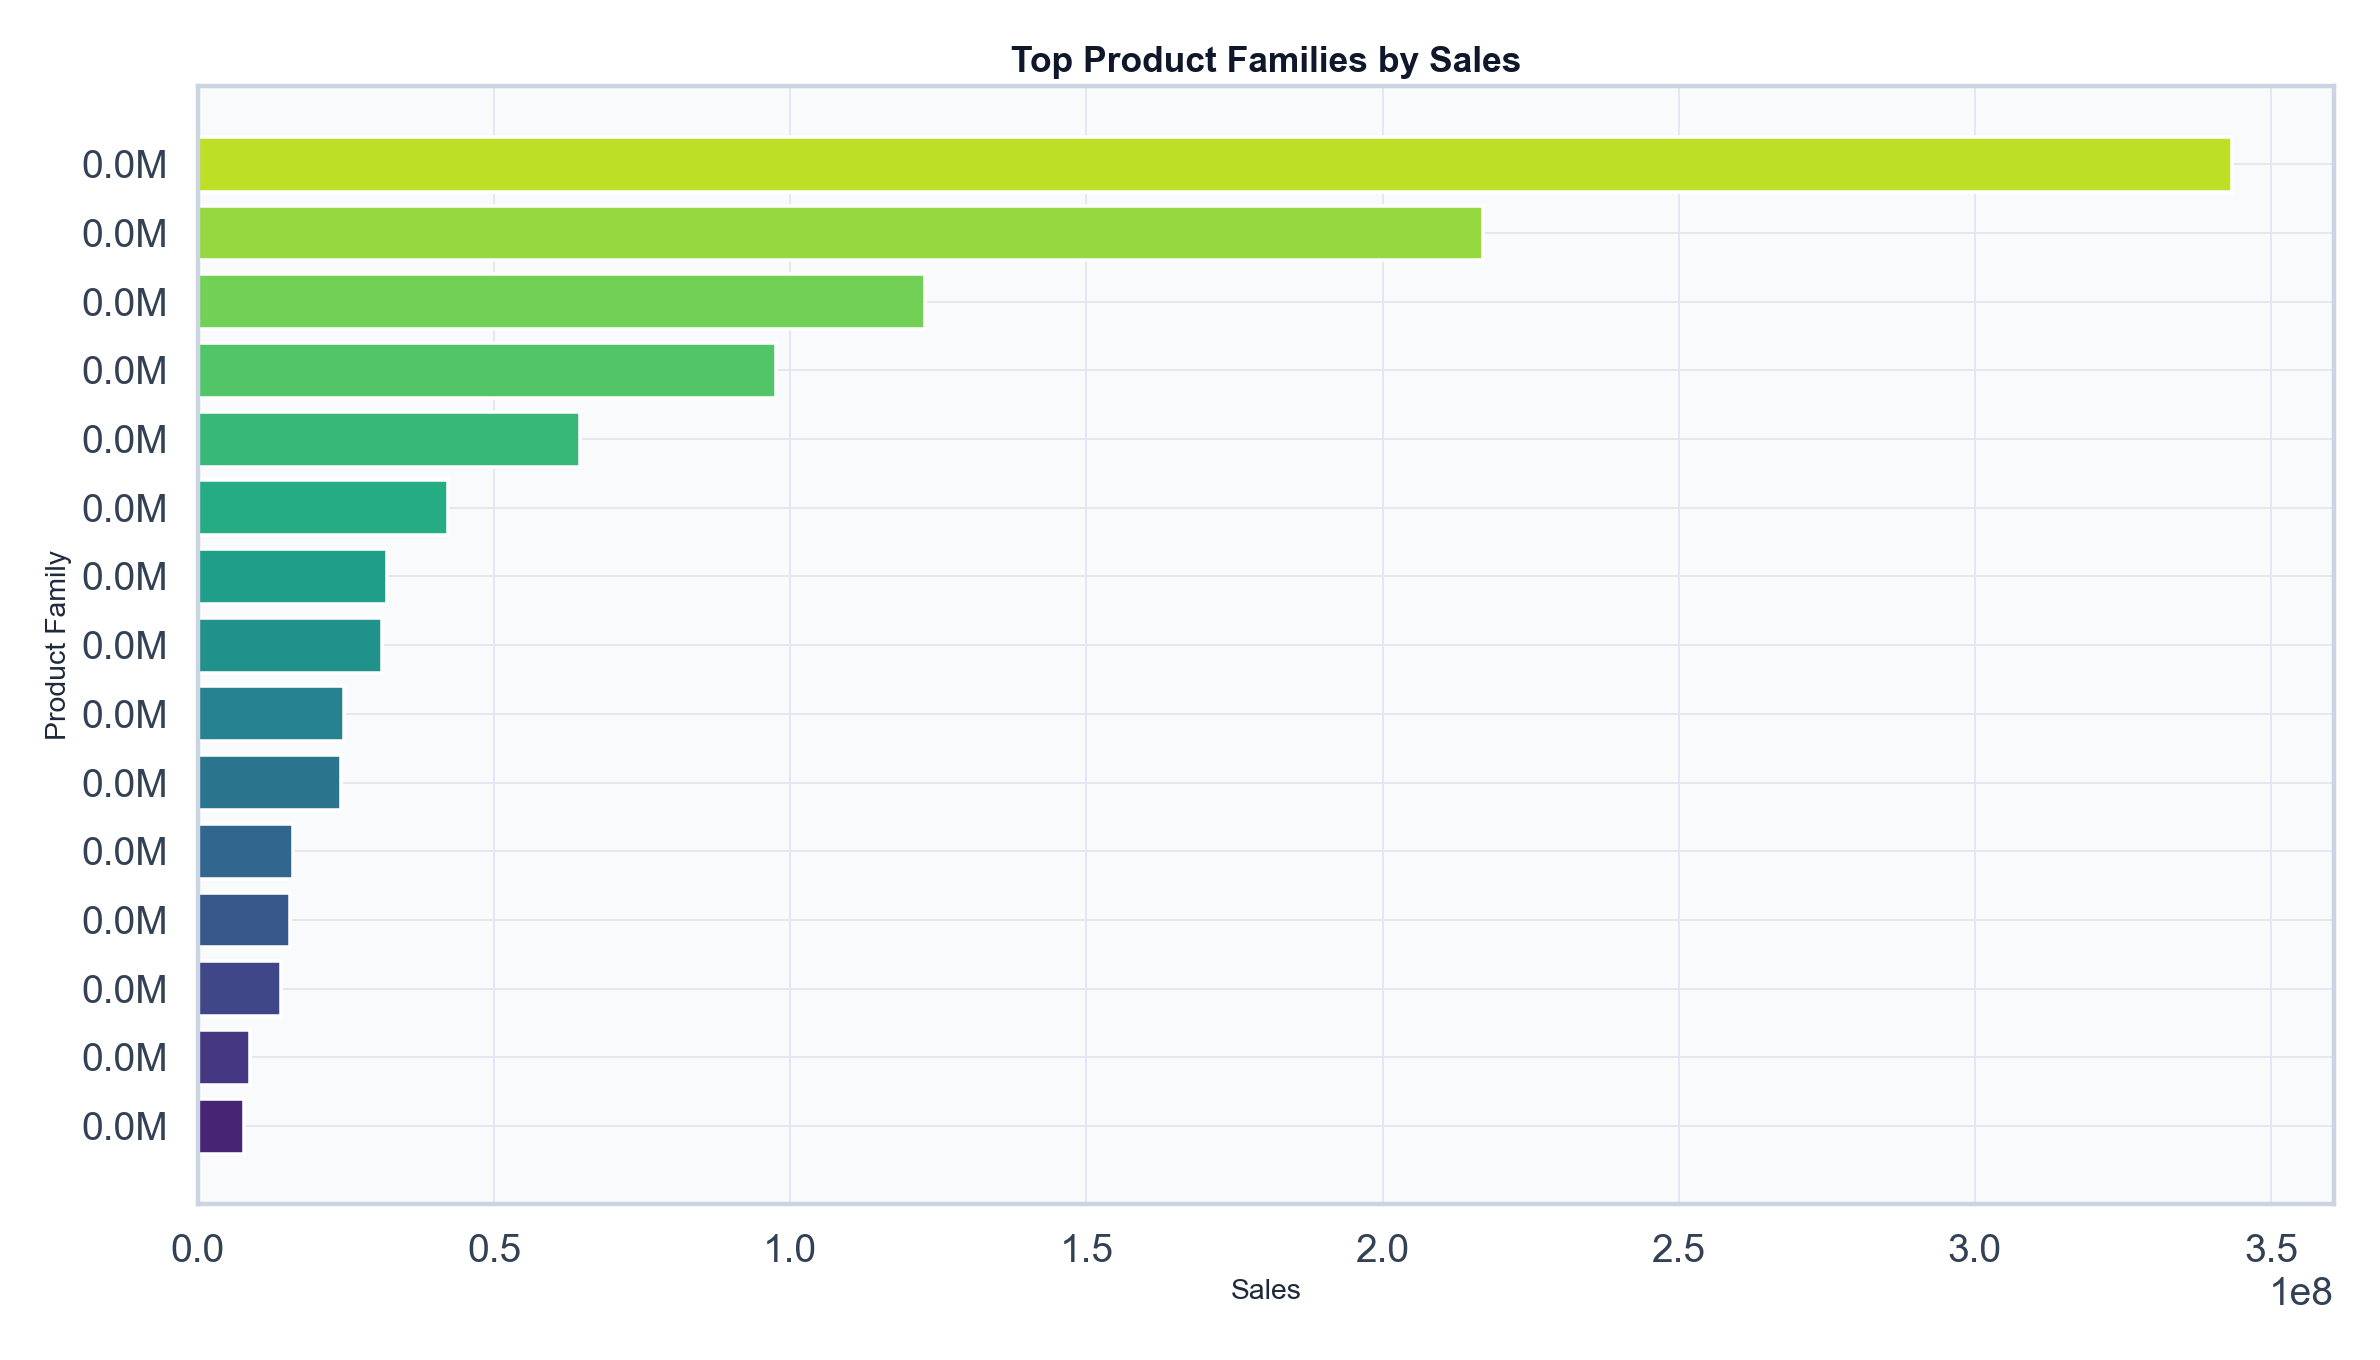
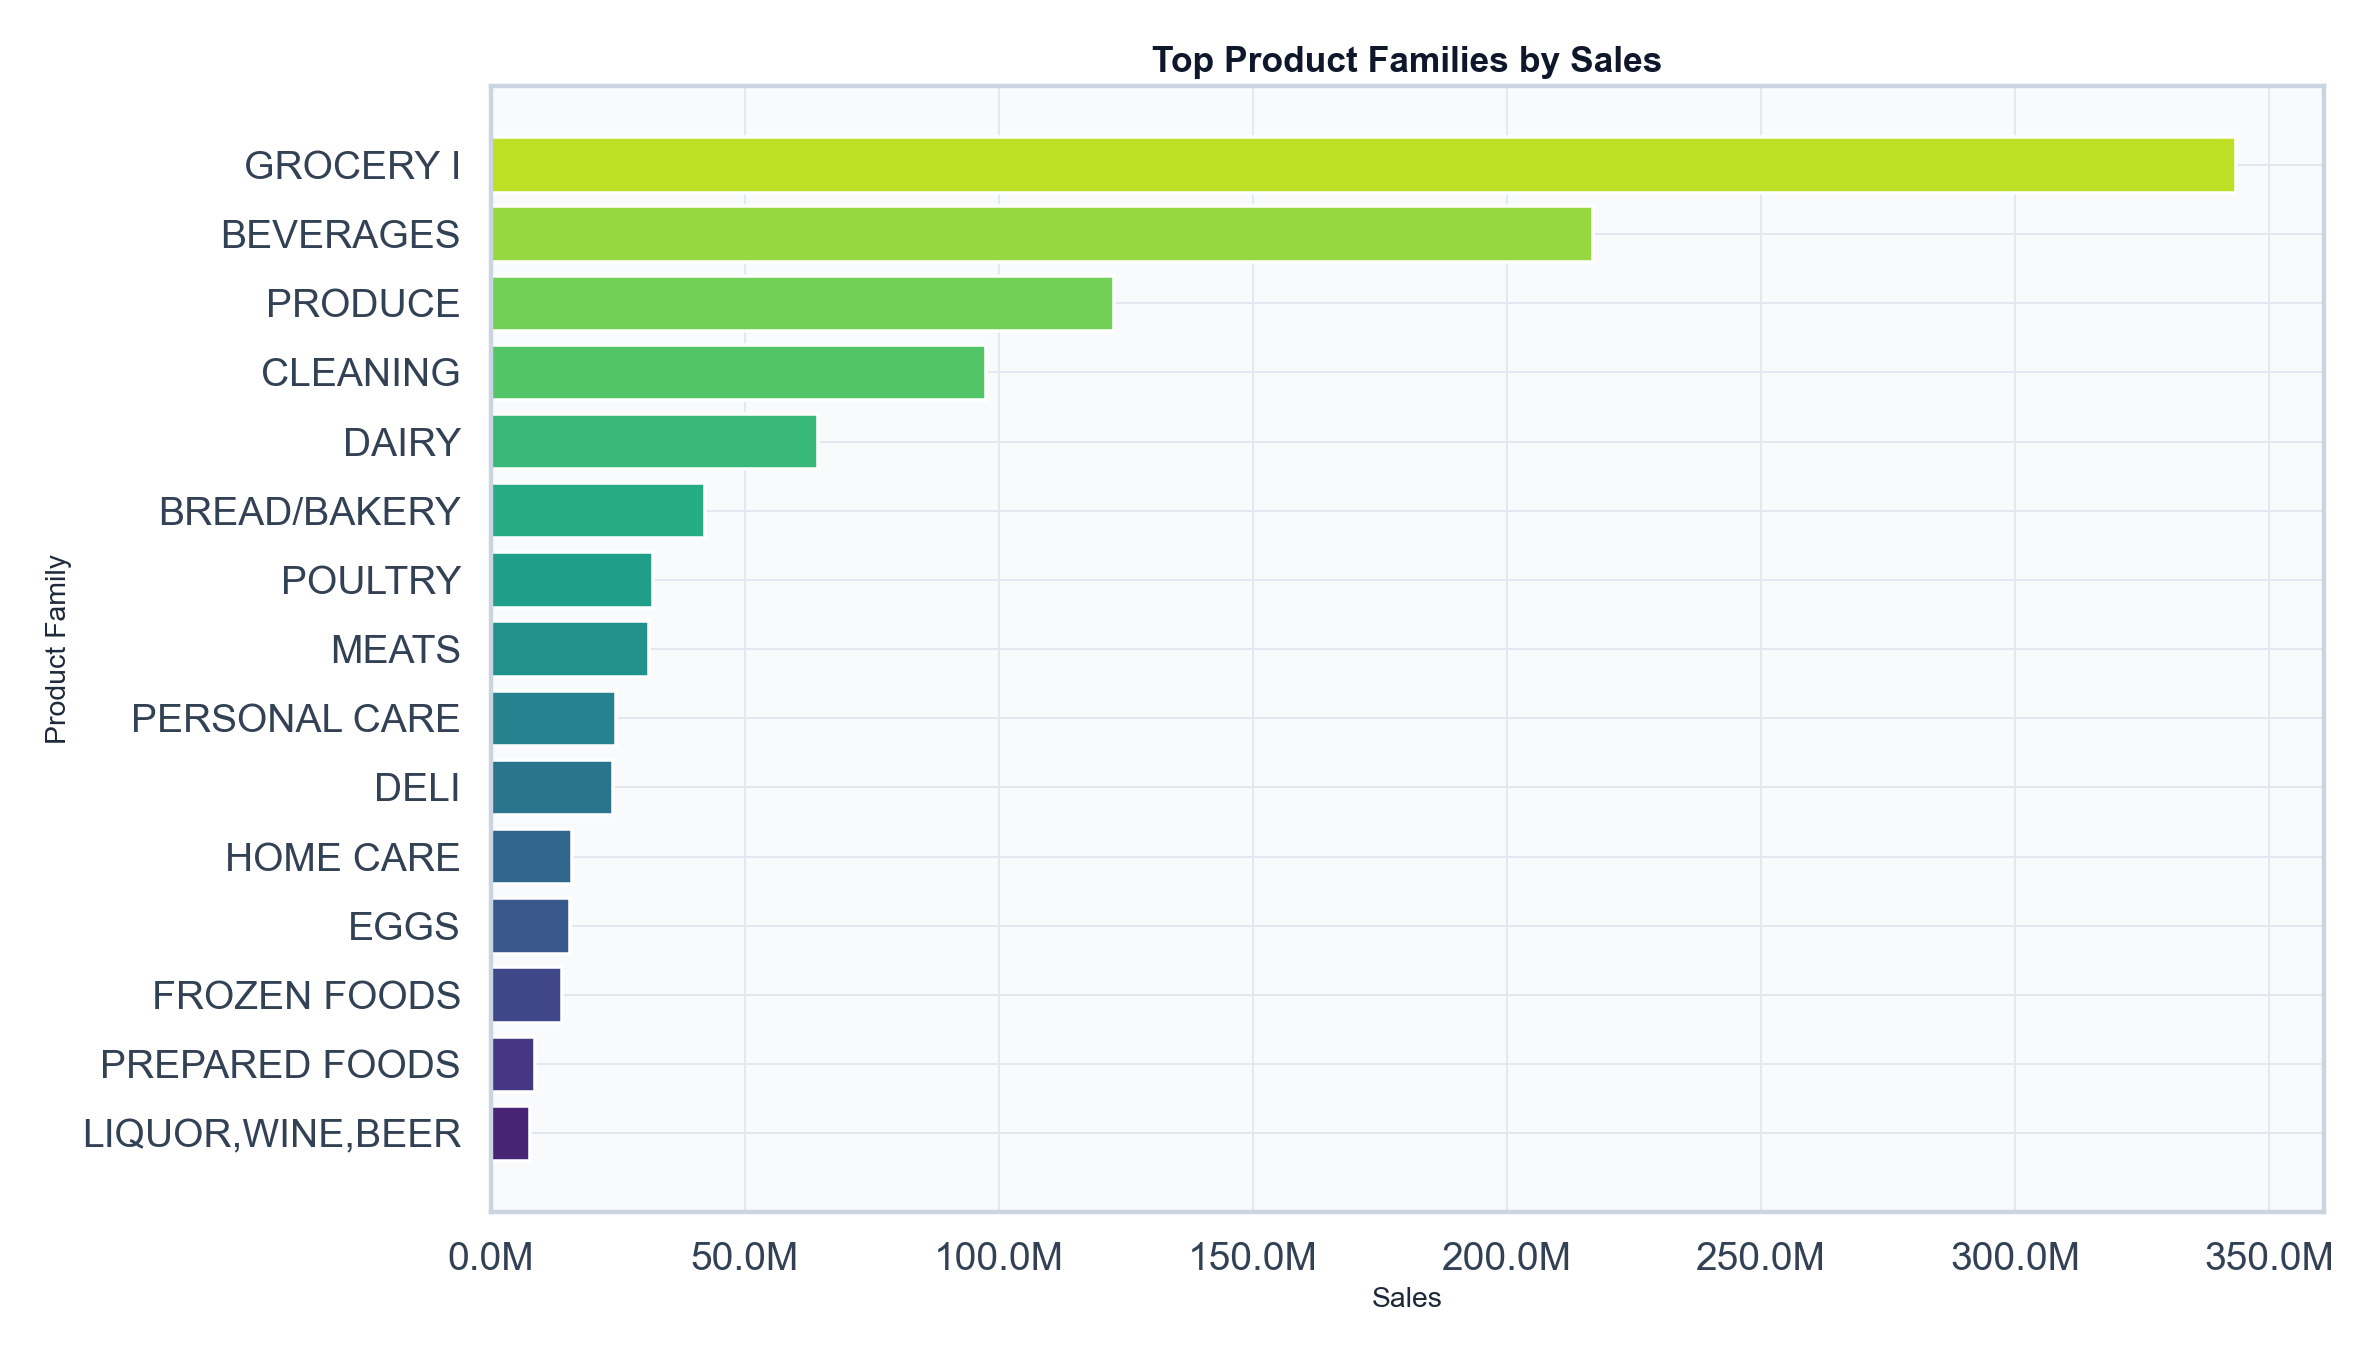
Fix product family axis labels and tighten dashboard preview

diff --git a/scripts/retail_analysis.py b/scripts/retail_analysis.py
@@ -86,9 +86,13 @@ def apply_plot_style() -> None:
     )
 
 
-def format_millions(axis: plt.Axes) -> None:
-    """Format axis labels in millions for better readability."""
-    axis.yaxis.set_major_formatter(ticker.FuncFormatter(lambda x, _: f"{x / 1_000_000:.1f}M"))
+def format_millions(axis: plt.Axes, target_axis: str = "y") -> None:
+    """Format numeric axis labels in millions for better readability."""
+    formatter = ticker.FuncFormatter(lambda x, _: f"{x / 1_000_000:.1f}M")
+    if target_axis == "x":
+        axis.xaxis.set_major_formatter(formatter)
+    else:
+        axis.yaxis.set_major_formatter(formatter)
 
 
 def standardize_columns(df: pd.DataFrame) -> pd.DataFrame:
@@ -349,7 +353,7 @@ def create_visuals(
     axis.set_title("Top Product Families by Sales")
     axis.set_xlabel("Sales")
     axis.set_ylabel("Product Family")
-    format_millions(axis)
+    format_millions(axis, target_axis="x")
     fig.tight_layout()
     fig.savefig(CHARTS_DIR / "sales_by_family.png", dpi=170)
     plt.close(fig)
@@ -372,45 +376,50 @@ def create_visuals(
     fig.savefig(CHARTS_DIR / "forecast.png", dpi=170)
     plt.close(fig)
 
-    # Combined executive-style dashboard.
-    fig, axes = plt.subplots(2, 2, figsize=(18, 10), constrained_layout=True)
-    fig.suptitle("Retail Sales Analytics Dashboard", fontsize=22, fontweight="bold", color="#0F172A")
+    # Combined executive-style dashboard with tighter framing for a closer preview.
+    fig, axes = plt.subplots(2, 2, figsize=(16, 10), constrained_layout=True)
+    fig.set_constrained_layout_pads(w_pad=0.02, h_pad=0.02, wspace=0.03, hspace=0.04)
+    fig.suptitle("Retail Sales Analytics Dashboard", fontsize=26, fontweight="bold", color="#0F172A")
 
     axes[0, 0].plot(daily_sales["date"], daily_sales["sales"], color=PALETTE["blue"], alpha=0.25, linewidth=1.2)
     axes[0, 0].plot(daily_sales["date"], rolling_30, color=PALETTE["teal"], linewidth=2.2)
-    axes[0, 0].set_title("Sales Trend Over Time")
+    axes[0, 0].set_title("Sales Trend Over Time", fontsize=18)
     axes[0, 0].set_xlabel("Date")
     axes[0, 0].set_ylabel("Sales")
+    axes[0, 0].tick_params(axis="both", labelsize=12)
     format_millions(axes[0, 0])
 
     top_12_stores = sales_by_store.head(12)
     top_store_colors = plt.cm.coolwarm(np.linspace(0.1, 0.95, len(top_12_stores)))
     axes[0, 1].bar(top_12_stores["store_nbr"].astype(str), top_12_stores["sales"], color=top_store_colors)
-    axes[0, 1].set_title("Top 12 Stores by Sales")
+    axes[0, 1].set_title("Top 12 Stores by Sales", fontsize=18)
     axes[0, 1].set_xlabel("Store")
     axes[0, 1].set_ylabel("Sales")
-    axes[0, 1].tick_params(axis="x", rotation=35)
+    axes[0, 1].tick_params(axis="x", rotation=35, labelsize=12)
+    axes[0, 1].tick_params(axis="y", labelsize=12)
     format_millions(axes[0, 1])
 
     top_10_families = sales_by_family.head(10).iloc[::-1]
     top_family_colors = plt.cm.magma(np.linspace(0.15, 0.9, len(top_10_families)))
     axes[1, 0].barh(top_10_families["family"], top_10_families["sales"], color=top_family_colors)
-    axes[1, 0].set_title("Top 10 Product Families")
+    axes[1, 0].set_title("Top 10 Product Families", fontsize=18)
     axes[1, 0].set_xlabel("Sales")
     axes[1, 0].set_ylabel("Family")
-    format_millions(axes[1, 0])
+    axes[1, 0].tick_params(axis="both", labelsize=12)
+    format_millions(axes[1, 0], target_axis="x")
 
     axes[1, 1].plot(history["date"], history["actual_sales"], color=PALETTE["blue"], linewidth=1.5, label="Actual")
     axes[1, 1].plot(forecast_df["date"], forecast_df["predicted_sales"], color=PALETTE["orange"], linestyle="--", linewidth=2.2, label="Predicted")
     if not future.empty:
         axes[1, 1].axvspan(future["date"].min(), future["date"].max(), color=PALETTE["orange"], alpha=0.08)
-    axes[1, 1].set_title("Forecast: Actual vs Predicted")
+    axes[1, 1].set_title("Forecast: Actual vs Predicted", fontsize=18)
     axes[1, 1].set_xlabel("Date")
     axes[1, 1].set_ylabel("Sales")
+    axes[1, 1].tick_params(axis="both", labelsize=12)
     format_millions(axes[1, 1])
-    axes[1, 1].legend(loc="upper left")
+    axes[1, 1].legend(loc="upper left", fontsize=11)
 
-    fig.savefig(DASHBOARD_DIR / "dashboard.png", dpi=180)
+    fig.savefig(DASHBOARD_DIR / "dashboard.png", dpi=220, bbox_inches="tight", pad_inches=0.08)
     plt.close(fig)
 
 
